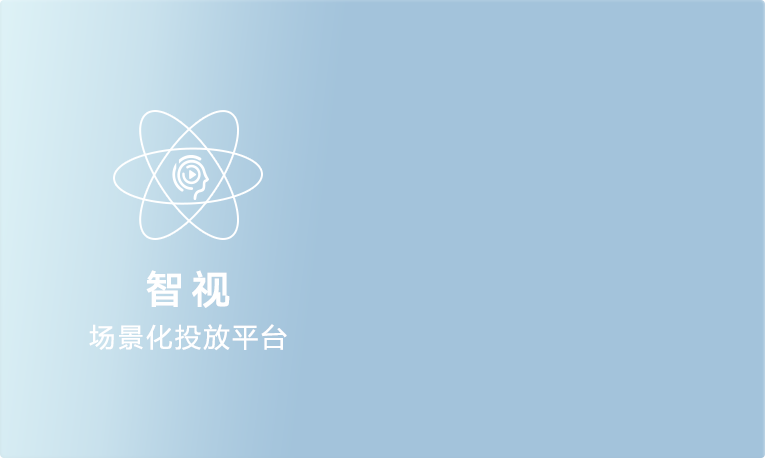
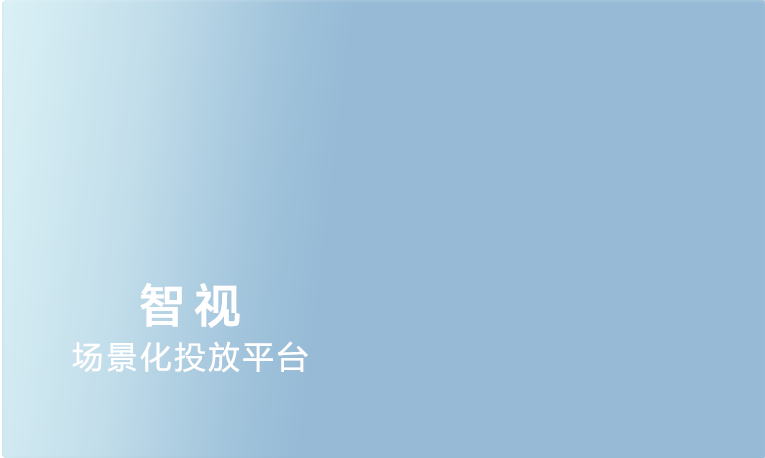
#0012 登陆页效果

diff --git a/src/components/index/login.vue b/src/components/index/login.vue
@@ -3,8 +3,18 @@
     <div class="con-wrap">
       <div class="left">
         <img src="../../assets/img/login-leftbg.png" alt="智视场景化投放平台">
+        <div class="box">
+          <div class="animationBox">
+            <div class="animationLogo"></div>
+            <ul>
+              <li class="round1"><span></span></li>
+              <li class="round2"><span></span></li>
+              <li class="round3"><span></span></li>
+            </ul>
+          </div>
+        </div>
         <div class="right">
-          <h1>视连通</h1>
+          <h1></h1>
           <input type="text" class="username" placeholder="请输入用户名" v-model="username">
           <i class="el-icon-my-denglu"></i>
           <input type="password" class="password" placeholder="请输入密码" v-model="password">
@@ -92,6 +102,7 @@
       .left {
         width: 100%;
         height: 100%;
+        position: relative;
         img {
           width: 100%;
           height: 100%;
@@ -107,13 +118,23 @@
         border-radius: 4px;
         h1 {
           width: 100%;
-          height: 35px;
+          height: 26px;
           font-size: 28px;
           letter-spacing: 5px;
           color: #555555;
           position: absolute;
           top: 17%;
           text-align center;
+          background: url("../../assets/img/vcalogo.png") no-repeat center
+          background-size: contain;
+          /* width: 100%;
+          height: 35px;
+          font-size: 28px;
+          letter-spacing: 5px;
+          color: #555555;
+          position: absolute;
+          top: 17%;
+          text-align center; */
         }
         i {
           font-size 16px;
@@ -182,6 +203,94 @@
           outline: none;
           box-shadow: 0 0 1px 0 rgba(74, 111, 205, .6);
         }
+      }
+    }
+    .box {
+      width: 150px;
+      height: 150px;
+      position: absolute;
+      left: 80px;
+      top: 50px;
+    }
+
+    .animationBox {
+      width: 100%;
+      height: 100%;
+      position: relative;
+      perspective: 4000px;
+      -webkit-perspective: 4000px;
+      transform-style: preserve-3d;
+      transform: rotateY(75deg);
+    }
+
+    .animationLogo {
+      width: 100%;
+      height: 100%;
+      position: absolute;
+      top: 0;
+      left: 0;
+      background: url('../../assets/img/animationLogo.png') no-repeat center;
+      transform: rotateY(-75deg);
+    }
+
+    .animationBox ul {
+      width: 100%;
+      height: 100%;
+      position: absolute;
+      top: 0;
+      left: 0;
+      transform: rotateX(0deg);
+      transform-origin: 50% 50%;
+      transform-style: preserve-3d;
+      animation: rotate3D 20s linear infinite;
+    }
+
+    .animationBox ul li {
+      box-sizing: border-box;
+      width: 100%;
+      height: 100%;
+      border: 3px solid #ffffff;
+      border-radius: 50%;
+      position: absolute;
+      padding: 4px;
+    }
+
+    .animationBox ul li span {
+      display: inline-block;
+      width: 100%;
+      height: 100%;
+      border-radius: 50%;
+      background: url('../../assets/img/animationRound.png') no-repeat;
+      background-size: cover;
+      animation: rotate 5s linear infinite;
+    }
+
+    .round1 {
+      transform: rotateX(0deg);
+    }
+
+    .round2 {
+      transform: rotateX(120deg);
+    }
+
+    .round3 {
+      transform: rotateX(240deg);
+    }
+
+    @keyframes rotate3D {
+      from {
+        transform: rotateX(0deg);
+      }
+      to {
+        transform: rotateX(-360deg);
+      }
+    }
+    @keyframes rotate {
+      from {
+        transform: rotate(0deg);
+      }
+      to {
+        transform: rotate(360deg);
       }
     }
   }
